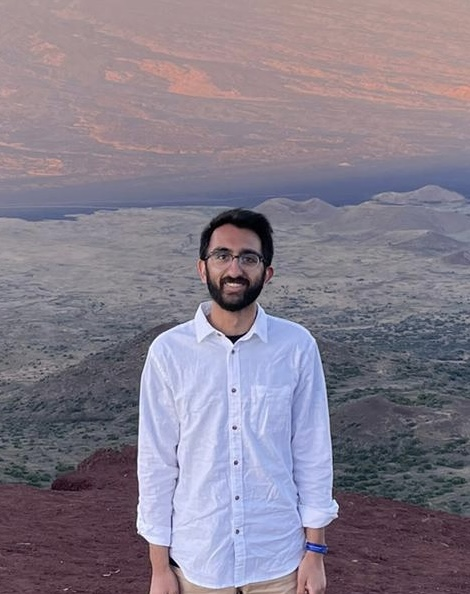
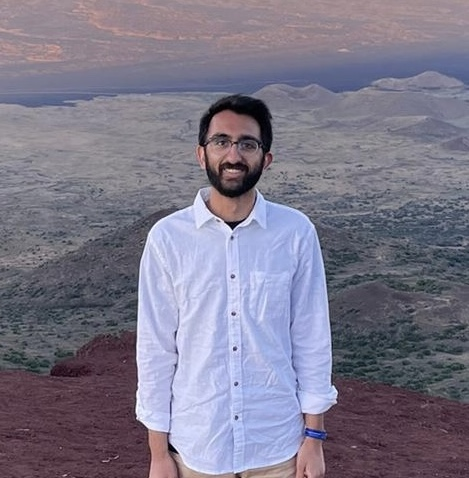
Still resizing image

diff --git a/index.html b/index.html
@@ -60,7 +60,7 @@ a:link {
 <p class="w3-justify">
 <br>
 <h1><b>Jaydeep Singh </b><font size="6"></font></h1>
-<p><img src="picture2.jpg" style="width:300px; height:379px"> </p>
+<p><img src="picture2.jpg" style="width:300px; height:306px"> </p>
 <p>I am a 5th year graduate student in the mathematics department at Princeton University, supervised by Igor Rodnianski. My research interests include nonlinear waves, general relativity, and plasma physics.</p>
 
 <p>A copy of my CV is available <a href="CV.pdf">here</a>.</p>
